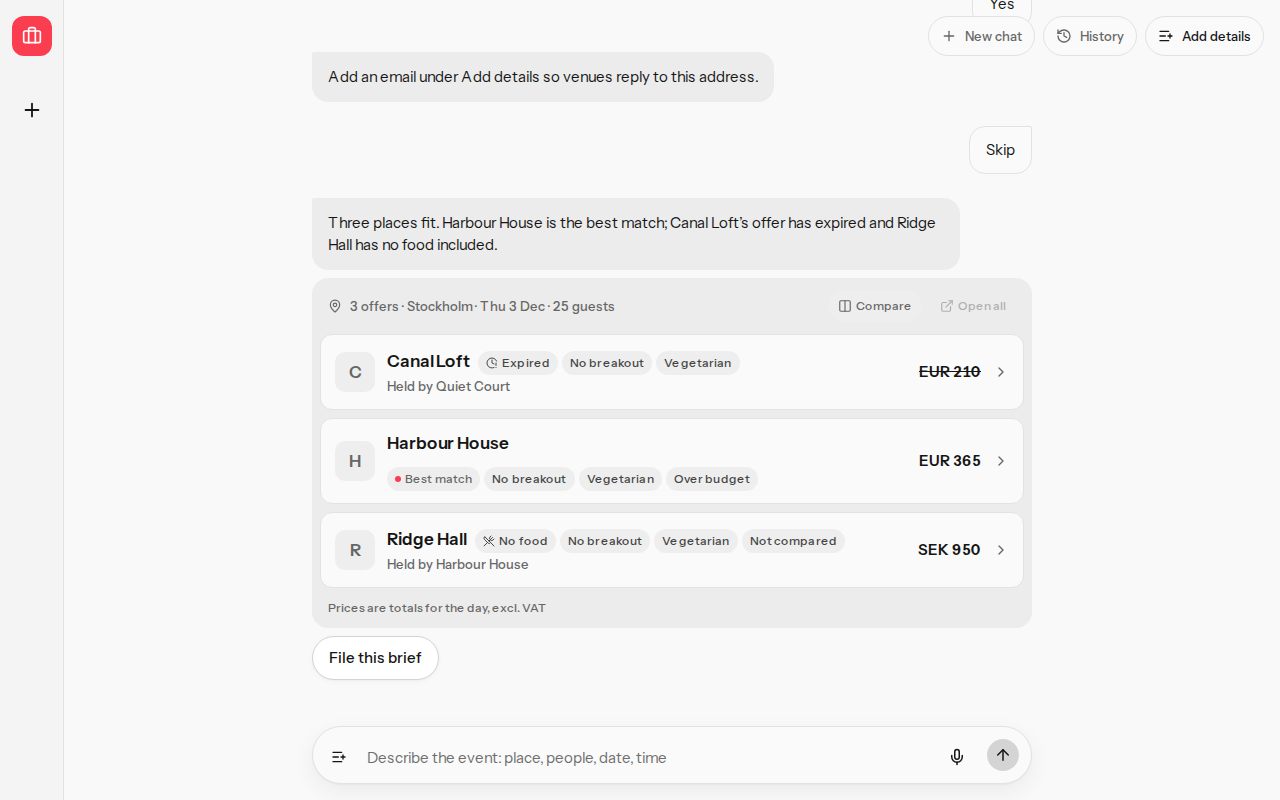
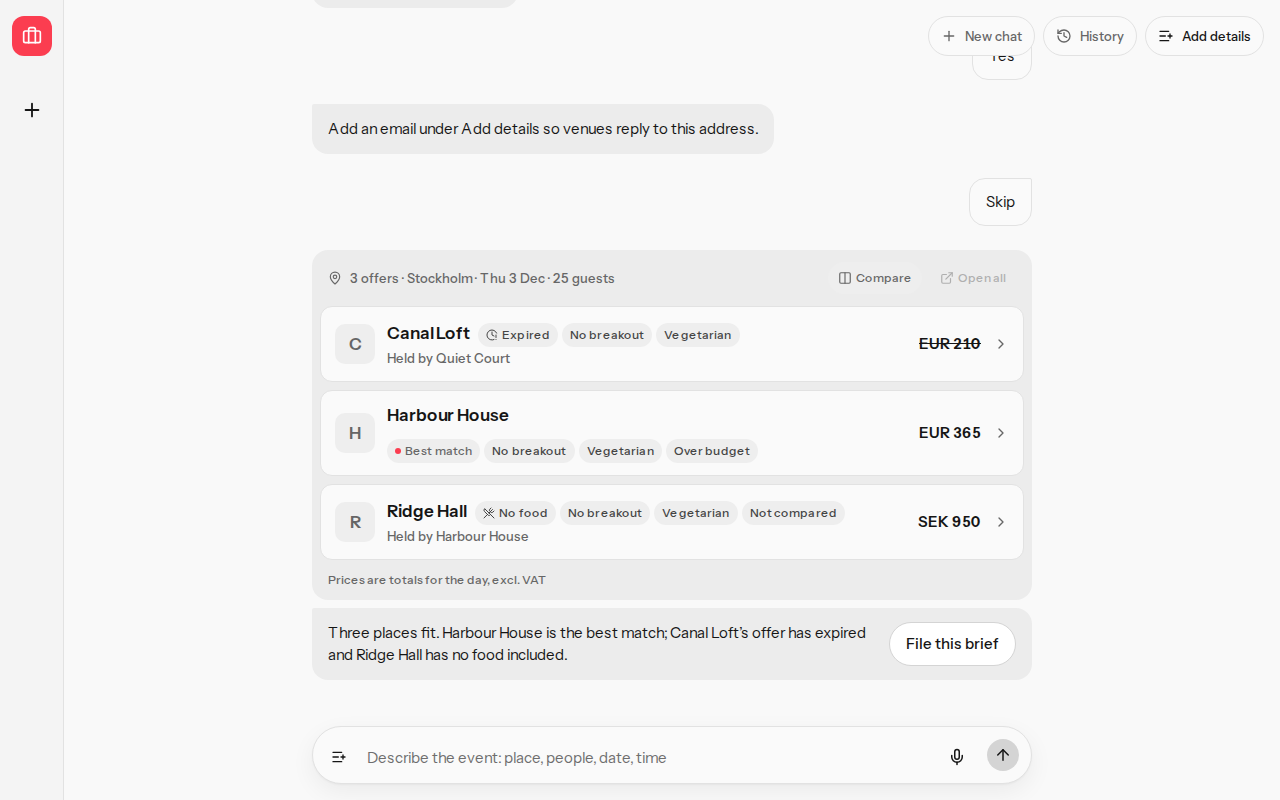
Put File this brief on the best-match suggestion row
The button sat apart from the suggestion under the venues. It now shares that row, on the right, so the action stays with the line it files.

diff --git a/e2e/critical-path.spec.ts b/e2e/critical-path.spec.ts
@@ -497,7 +497,7 @@ test("names the details control the same in the header, composer, and drawer", a
   }
 });
 
-test("places File this brief below the ranked venues", async ({ page }) => {
+test("places File this brief on the best-match suggestion", async ({ page }) => {
   for (const viewport of sizedViewports) {
     await page.setViewportSize(viewport);
     await reachResults(page);
@@ -505,63 +505,55 @@ test("places File this brief below the ranked venues", async ({ page }) => {
     await thread.evaluate((node) => {
       node.scrollTop = node.scrollHeight;
     });
-    const file = page.locator(".planner-assistant [data-lcv-event=file-brief]");
+    const file = page.locator(".planner-file-suggestion [data-lcv-event=file-brief]");
     await expect(file).toHaveText("File this brief");
     await expect(file).toBeEnabled();
-    const placed = await page.evaluate(() => {
-      const summary = document.querySelector("[data-lcv-count=reply]");
-      const fileButton = document.querySelector(".planner-assistant [data-lcv-event=file-brief]");
-      const cards = [...document.querySelectorAll("[data-offer-card]")];
-      const first = cards[0];
-      const last = cards.at(-1);
+    const placed = await page.evaluate((width) => {
+      const row = document.querySelector(".planner-file-suggestion");
+      const summary = row?.querySelector("[data-lcv-count=reply]");
+      const fileButton = row?.querySelector("[data-lcv-event=file-brief]");
+      const last = [...document.querySelectorAll("[data-offer-card]")].at(-1);
       const threadNode = document.querySelector(".planner-thread");
       if (
+        !(row instanceof HTMLElement) ||
         !(summary instanceof HTMLElement) ||
         !(fileButton instanceof HTMLButtonElement) ||
-        !(first instanceof HTMLElement) ||
         !(last instanceof HTMLElement) ||
         !(threadNode instanceof HTMLElement)
       ) {
         return null;
       }
+      const rowBox = row.getBoundingClientRect();
       const summaryBox = summary.getBoundingClientRect();
-      const firstBox = first.getBoundingClientRect();
       const lastBox = last.getBoundingClientRect();
       const fileBox = fileButton.getBoundingClientRect();
-      const points = [
-        [fileBox.left + fileBox.width / 2, fileBox.top + fileBox.height / 2],
-        [fileBox.left + 8, fileBox.top + 8],
-        [fileBox.right - 8, fileBox.bottom - 8],
-      ];
-      const covered = points.some(([x, y]) => {
-        const hit = document.elementFromPoint(x, y);
-        return hit === null || !fileButton.contains(hit);
-      });
+      const overlaps =
+        fileBox.top < summaryBox.bottom && fileBox.bottom > summaryBox.top && fileBox.left > summaryBox.left;
+      const wrapped = fileBox.top >= summaryBox.bottom - 1;
+      const inside =
+        fileBox.left >= rowBox.left - 1 &&
+        fileBox.right <= rowBox.right + 1 &&
+        fileBox.top >= rowBox.top - 1 &&
+        fileBox.bottom <= rowBox.bottom + 1 &&
+        summaryBox.left >= rowBox.left - 1 &&
+        summaryBox.right <= rowBox.right + 1;
       return {
-        summaryAbove: summaryBox.bottom <= firstBox.top + 1,
-        fileBelow: fileBox.top >= lastBox.bottom - 0.5,
-        fileTop: fileBox.top,
-        fileLeft: fileBox.left,
-        fileRight: fileBox.right,
-        fileBottom: fileBox.bottom,
-        covered,
+        belowResults: rowBox.top >= lastBox.bottom - 1,
+        inside,
+        beside: width >= 800 ? overlaps && fileBox.right > summaryBox.right - 1 : inside && (overlaps || wrapped),
+        wrapGap: wrapped ? fileBox.top - summaryBox.bottom : 0,
         threadOverflow: threadNode.scrollWidth > threadNode.clientWidth + 1,
-        docOverflow: document.documentElement.scrollWidth > document.documentElement.clientWidth + 1,
       };
-    });
+    }, viewport.width);
     expect(placed).not.toBeNull();
     if (placed === null) {
       return;
     }
-    expect(placed.summaryAbove).toBe(true);
-    expect(placed.fileBelow).toBe(true);
-    expect(placed.fileTop).toBeGreaterThanOrEqual(0);
-    expect(placed.fileLeft).toBeGreaterThanOrEqual(0);
-    expect(placed.fileRight).toBeLessThanOrEqual(viewport.width + 1);
-    expect(placed.fileBottom).toBeLessThanOrEqual(viewport.height);
-    expect(placed.covered).toBe(false);
+    expect(placed.belowResults).toBe(true);
+    expect(placed.inside).toBe(true);
+    expect(placed.beside).toBe(true);
+    expect(placed.wrapGap).toBeLessThanOrEqual(16);
     expect(placed.threadOverflow).toBe(false);
-    expect(placed.docOverflow).toBe(false);
   }
 });
 

diff --git a/src/views/planner-shell.tsx b/src/views/planner-shell.tsx
@@ -319,6 +319,28 @@ export function PlannerShell({ viewModel, onEvent, historyControl, pendingKind =
     ready: viewModel.ready,
   });
   const showResultsFile = viewModel.phase === "results" && viewModel.rows.length > 0;
+  const liveCopy = (
+    <LiveCopy
+      viewModel={viewModel}
+      onConfirm={() => {
+        pushTurn("Yes");
+        lastKind.current = "search";
+        setPendingTick((value) => value + 1);
+        onEvent({ type: "briefConfirmed" }, "search");
+      }}
+      onSkip={() => {
+        pushTurn("Skip");
+        lastKind.current = "search";
+        setPendingTick((value) => value + 1);
+        onEvent({ type: "favoritesSubmitted", text: "skip" }, "search");
+      }}
+      onRefine={(text) => {
+        setDraft(text);
+        composerRef.current?.focus();
+      }}
+      onRetry={() => submitText(heldDraft.current, lastKind.current)}
+    />
+  );
 
   return (
     <LayoutGroup>
@@ -416,32 +438,11 @@ export function PlannerShell({ viewModel, onEvent, historyControl, pendingKind =
                   )}
                   {showLive ? (
                     <div className="planner-assistant">
-                      <div className="planner-assistant-bubble">
-                        {pending ? (
+                      {pending ? (
+                        <div className="planner-assistant-bubble">
                           <Pending kind={pendingKind ?? "read"} slow={slow} />
-                        ) : (
-                          <LiveCopy
-                            viewModel={viewModel}
-                            onConfirm={() => {
-                              pushTurn("Yes");
-                              lastKind.current = "search";
-                              setPendingTick((value) => value + 1);
-                              onEvent({ type: "briefConfirmed" }, "search");
-                            }}
-                            onSkip={() => {
-                              pushTurn("Skip");
-                              lastKind.current = "search";
-                              setPendingTick((value) => value + 1);
-                              onEvent({ type: "favoritesSubmitted", text: "skip" }, "search");
-                            }}
-                            onRefine={(text) => {
-                              setDraft(text);
-                              composerRef.current?.focus();
-                            }}
-                            onRetry={() => submitText(heldDraft.current, lastKind.current)}
-                          />
-                        )}
-                      </div>
+                        </div>
+                      ) : null}
                       {pending && pendingKind === "search" ? <SkeletonGroup /> : null}
                       {!pending && moreLine ? (
                         <p className="planner-more-update" role="status" data-more-update>
@@ -457,12 +458,18 @@ export function PlannerShell({ viewModel, onEvent, historyControl, pendingKind =
                         })
                       ) : null}
                       {!pending && showResultsFile ? (
-                        <ResultsFile
-                          conceal={viewModel.openRow !== null}
-                          label={fileBriefLabel(viewModel.filed)}
-                          pressable={filePressable}
-                          onFile={fileBrief}
-                        />
+                        <div className="planner-file-suggestion">
+                          <div className="planner-assistant-bubble">{liveCopy}</div>
+                          <ResultsFile
+                            conceal={viewModel.openRow !== null}
+                            label={fileBriefLabel(viewModel.filed)}
+                            pressable={filePressable}
+                            onFile={fileBrief}
+                          />
+                        </div>
+                      ) : null}
+                      {!pending && !showResultsFile ? (
+                        <div className="planner-assistant-bubble">{liveCopy}</div>
                       ) : null}
                     </div>
                   ) : null}

diff --git a/tests/offer-detail.test.tsx b/tests/offer-detail.test.tsx
@@ -225,20 +225,20 @@ describe("offer detail", () => {
     expect(screen.getAllByRole("button", { name: "File this brief" })).toHaveLength(1);
   });
 
-  it("places File this brief below the ranked venues", () => {
+  it("places File this brief on the best-match suggestion", () => {
     installDomShims();
     render(<PlannerShell viewModel={model()} onEvent={() => undefined} historyControl={null} />);
     const summary = screen.getByRole("heading", { level: 2 });
     const cards = document.querySelectorAll("[data-offer-card]");
     const last = cards.item(cards.length - 1);
     const file = screen.getByRole("button", { name: "File this brief" });
+    const row = file.closest(".planner-file-suggestion");
     expect(cards.length).toBeGreaterThan(0);
-    if (!(last instanceof HTMLElement)) {
-      throw new Error("Missing venue row");
+    if (!(last instanceof HTMLElement) || !(row instanceof HTMLElement)) {
+      throw new Error("Missing suggestion row");
     }
-    expect(summary.compareDocumentPosition(last) & Node.DOCUMENT_POSITION_FOLLOWING).not.toBe(0);
-    expect(last.compareDocumentPosition(file) & Node.DOCUMENT_POSITION_FOLLOWING).not.toBe(0);
-    expect(file.closest(".planner-assistant-bubble")).toBeNull();
+    expect(row.contains(summary)).toBe(true);
+    expect(last.compareDocumentPosition(row) & Node.DOCUMENT_POSITION_FOLLOWING).not.toBe(0);
     expect(file.getAttribute("data-lcv-event")).toBe("file-brief");
   });
 

diff --git a/src/app/globals.css b/src/app/globals.css
@@ -291,6 +291,32 @@ body:has(.planner-drawer[data-state="open"]) .planner-header {
   padding: 14px 16px;
 }
 
+.planner-file-suggestion {
+  display: flex;
+  width: 100%;
+  box-sizing: border-box;
+  flex-wrap: wrap;
+  align-items: center;
+  gap: 8px 12px;
+  border-radius: 2px 16px 16px;
+  background: var(--surface-assistant);
+  padding: 14px 16px;
+}
+
+.planner-file-suggestion > .planner-assistant-bubble {
+  flex: 1 1 0;
+  min-width: 0;
+  max-width: none;
+  border-radius: 0;
+  background: transparent;
+  padding: 0;
+}
+
+.planner-file-suggestion > .planner-actions {
+  flex: none;
+  margin-left: auto;
+}
+
 .planner-text {
   margin: 0;
   white-space: pre-line;

diff --git a/docs/evidence/cursor-file-button-order-f6d8.md b/docs/evidence/cursor-file-button-order-f6d8.md
@@ -14,11 +14,11 @@ At 1280×800 the summary ended at 256, the button ran from 264 to 308, and the l
 
 ## After
 
-The order is the summary, the ranked venues, then File this brief. The label stays "File this brief" and the test id stays `file-brief`.
+The best-match suggestion sits in one row under the ranked venues. File this brief is in that same row, on the right. The label stays "File this brief" and the test id stays `file-brief`.
 
-At 390×844, after scrolling to the end, the last venue row ends at 632 and the button runs from 680 to 724. It sits inside the viewport, above the composer. The thread does not scroll sideways.
+At 1280×800 the suggestion and the button share one line. The button starts to the right of the sentence.
 
-At 1280×800 the summary ends at 256, the last venue row ends at 588, and the button runs from 636 to 680, inside the viewport.
+At 390×844 the sentence wraps and the button stays on the right inside the same row. There is no second block between them.
 
 ![Phone after](cursor-file-button-order-f6d8/after-phone.png)
 
